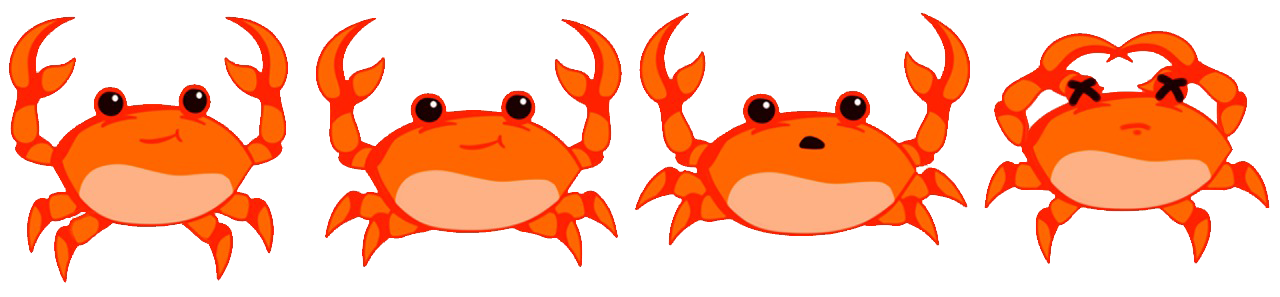
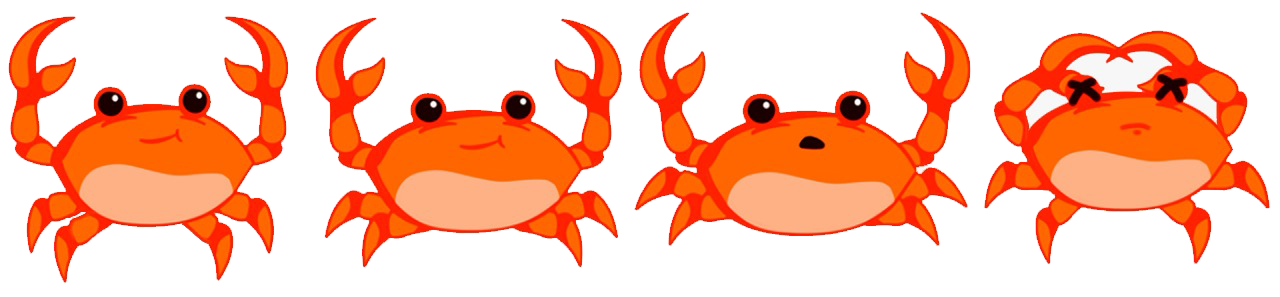
Add files via upload

diff --git a/index.html b/index.html
@@ -53,7 +53,13 @@ body{
     animation: animarDino 0.4s steps(2) infinite;
 }
 .dino-estrellado {
-    background-position-x: -672px;
+    width: 80px;
+    height: 84px;
+
+
+    background: url(Cangre_img/Cangregomuert.png) repeat-x 0px 0px;
+    background-size: 80px 84px;
+    background-position-x: 0px;
 }
 
 .suelo {
